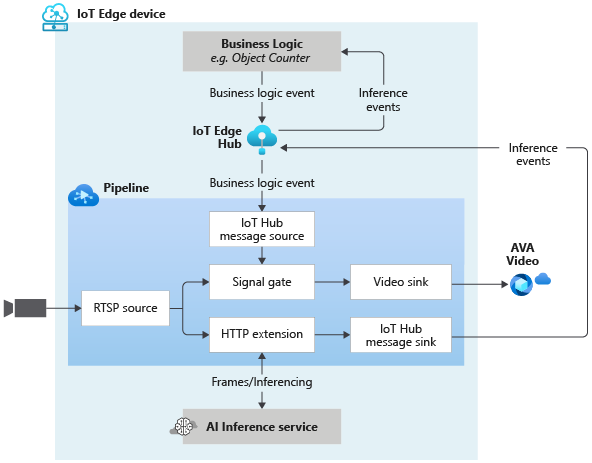
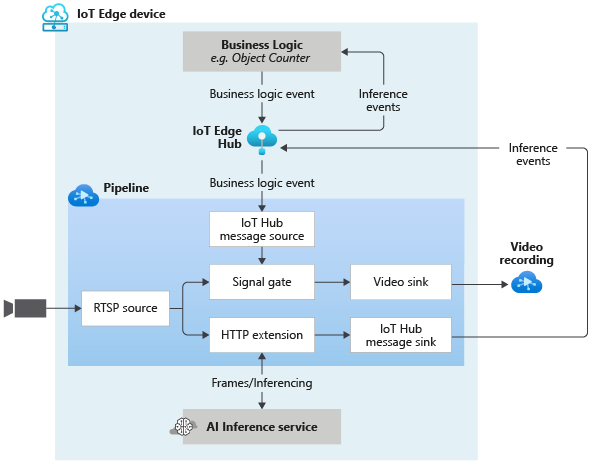
Update images, links and video names

diff --git a/pipelines/live/topologies/spatial-analysis/readme.md b/pipelines/live/topologies/spatial-analysis/readme.md
@@ -1,6 +1,6 @@
 # Analyzing Live Video with Computer Vision for Spatial Analysis
 
-The video from an RTSP-capable camera is sent to an external module ([spatialAnalysis](https://docs.microsoft.com/azure/cognitive-services/computer-vision/spatial-analysis-operations)) which carries out a supported AI operation. When the criteria defined by the AI operation is met, events are sent to a signal gate processor which opens, sending the frames to an asset sink node. As a result, new Assets are created containing clips where the criteria defined by the AI operation are met. You can read more about how to use Live Video Analytics together with Computer Vision for spatial analysis AI service from Azure Cognitive Services in [this](https://aka.ms/lva-spatial-analysis) documentation page.
+The video from an RTSP-capable camera is sent to an external module ([spatialAnalysis](https://docs.microsoft.com/azure/cognitive-services/computer-vision/spatial-analysis-operations)) which carries out a supported AI operation. When the criteria defined by the AI operation is met, events are sent to a signal gate processor which opens, sending the frames to an asset sink node. As a result, new Assets are created containing clips where the criteria defined by the AI operation are met. You can read more about how to use Azure Video Analyzer together with Computer Vision for spatial analysis AI service from Azure Cognitive Services in [this](https://aka.ms/lva-spatial-analysis) documentation page.
 
 <br>
 <p align="center">

diff --git a/pipelines/live/topologies/evr-hubMessage-files/readme.md b/pipelines/live/topologies/evr-hubMessage-files/readme.md
@@ -1,6 +1,6 @@
 # Event-based recording of video to files based on messages sent via IoT Edge Hub
 
-This topology enables you to record video clips to the local file system of the edge device whenever an external sensor sends a message to the media graph. The diagram below shows a door sensor as an external module, but it could be any sensor or app sending the message.  
+This topology enables you to record video clips to the local file system of the edge device whenever an external sensor sends a message to the pipeline topology. The diagram below shows a door sensor as an external module, but it could be any sensor or app sending the message.  
 
 Note: This topology is similar to the [topology](../evr-hubMessage-video-sink/topology.json) where you record video clips only, when desired objects are detected. To trigger recording of video with this topology, you will need to send events to the IoT Hub message source node. An option to accomplish this is to deploy another IoT Edge module which generates events. You would then configure message routing in the IoT Edge deployment manifest to send those events from the latter module to the IoT Hub message source node in this topology.
 

diff --git a/pipelines/images/readme.md b/pipelines/images/readme.md
@@ -16,5 +16,5 @@ A pipeline topology can have one or more of the following types of nodes:
 
 Azure Video Analyzer on IoT Edgeenables you to manage pipelines via two entities – “Pipeline Topology” and “Live Pipeline”. A pipeline enables you to define a blueprint of the pipeline topologies with parameters as placeholders for values. This pipeline defines what nodes are used in the pipeline topology, and how they are connected within it. A live pipeline enables you to provide values for parameters in a pipeline topology. The live pipeline can then be activated to enable the flow of data.
 
-You can learn more about this in the [pipeline topologies](https://docs.microsoft.com/azure/azure-video-analyzer/video-analyzer-docs/pipeline) concept page.
+You can learn more about this in the [pipeline topologies](https://docs.microsoft.com/en-us/azure/azure-video-analyzer/video-analyzer-docs/pipeline) concept page.
 

diff --git a/pipelines/live/topologies/line-crossing/readme.md b/pipelines/live/topologies/line-crossing/readme.md
@@ -1,0 +1,10 @@
+# Line crossing in live video
+
+This topology enables you to use line crossing and get events when objects cross that line in a live rtsp video feed. It uses computer vision model to detect objects in a subset of the frames in the live video feed. The object tracker node is used to track those objects in the frames and pass them through a line crossing node.
+The line crossing node comes in handy when you want to detect objects that cross the imaginary line and emit events. The events contain the direction (clockwise, counterclockwise) and a total counter per direction.
+
+<br>
+<p align="center">
+  <img src="./topology.png" title="Tracking objects in a live video feed and pass through a line crossing node"/>
+</p>
+<br>
